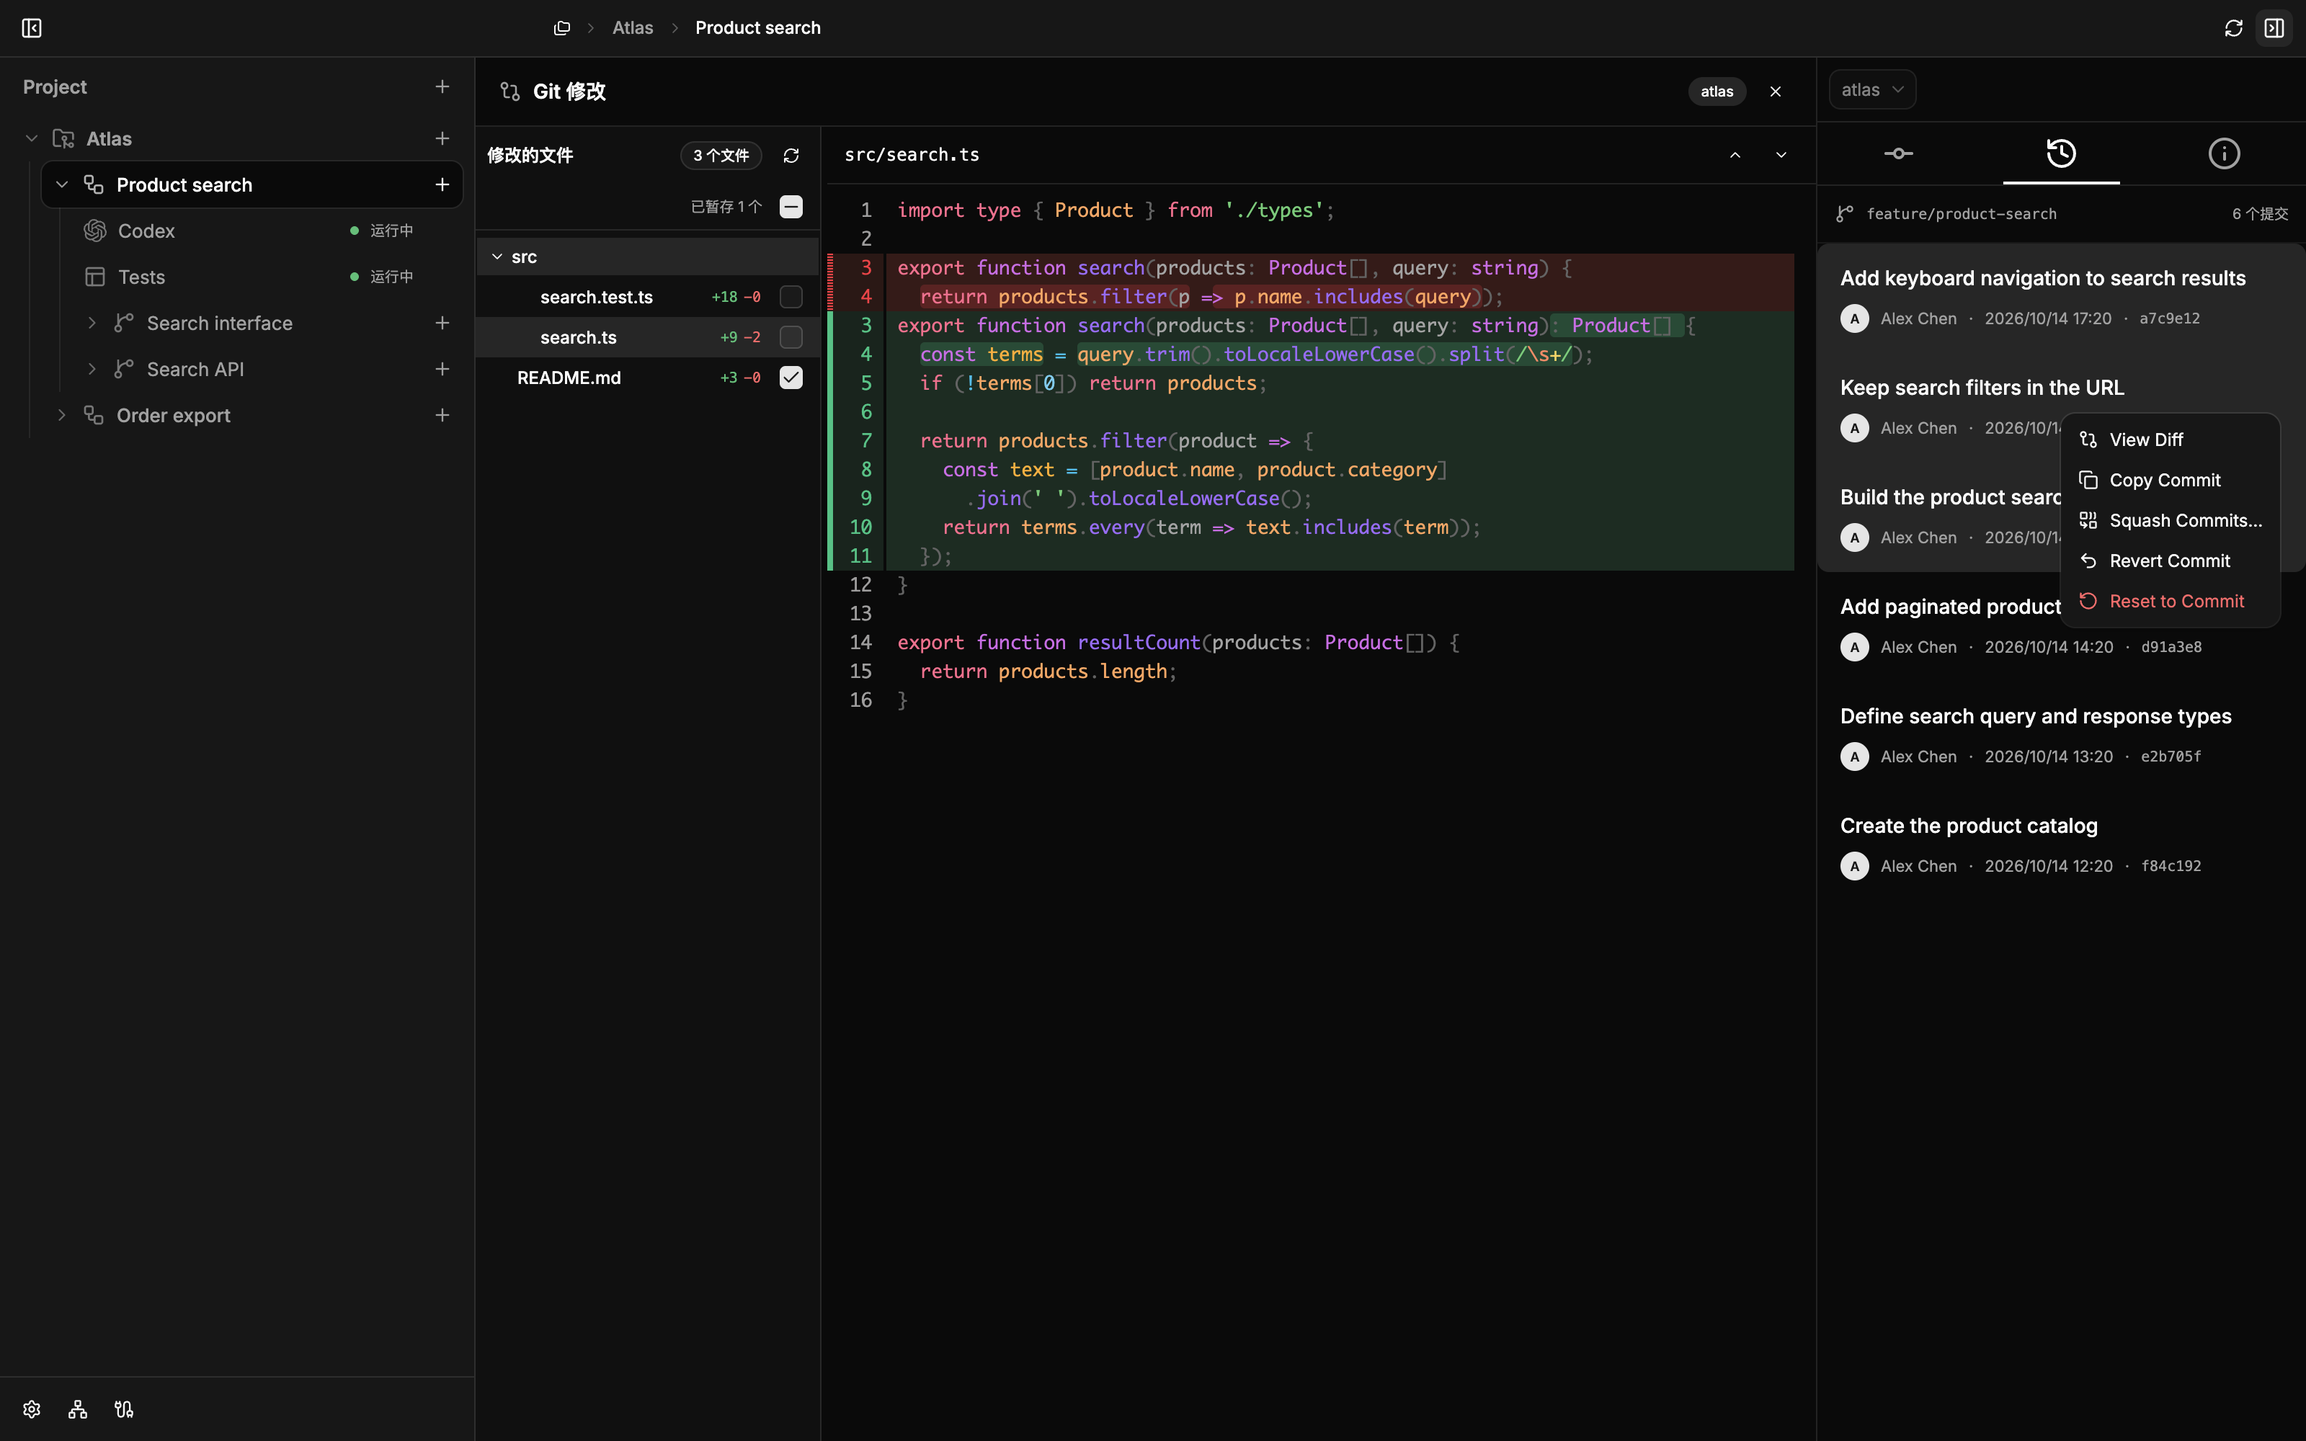
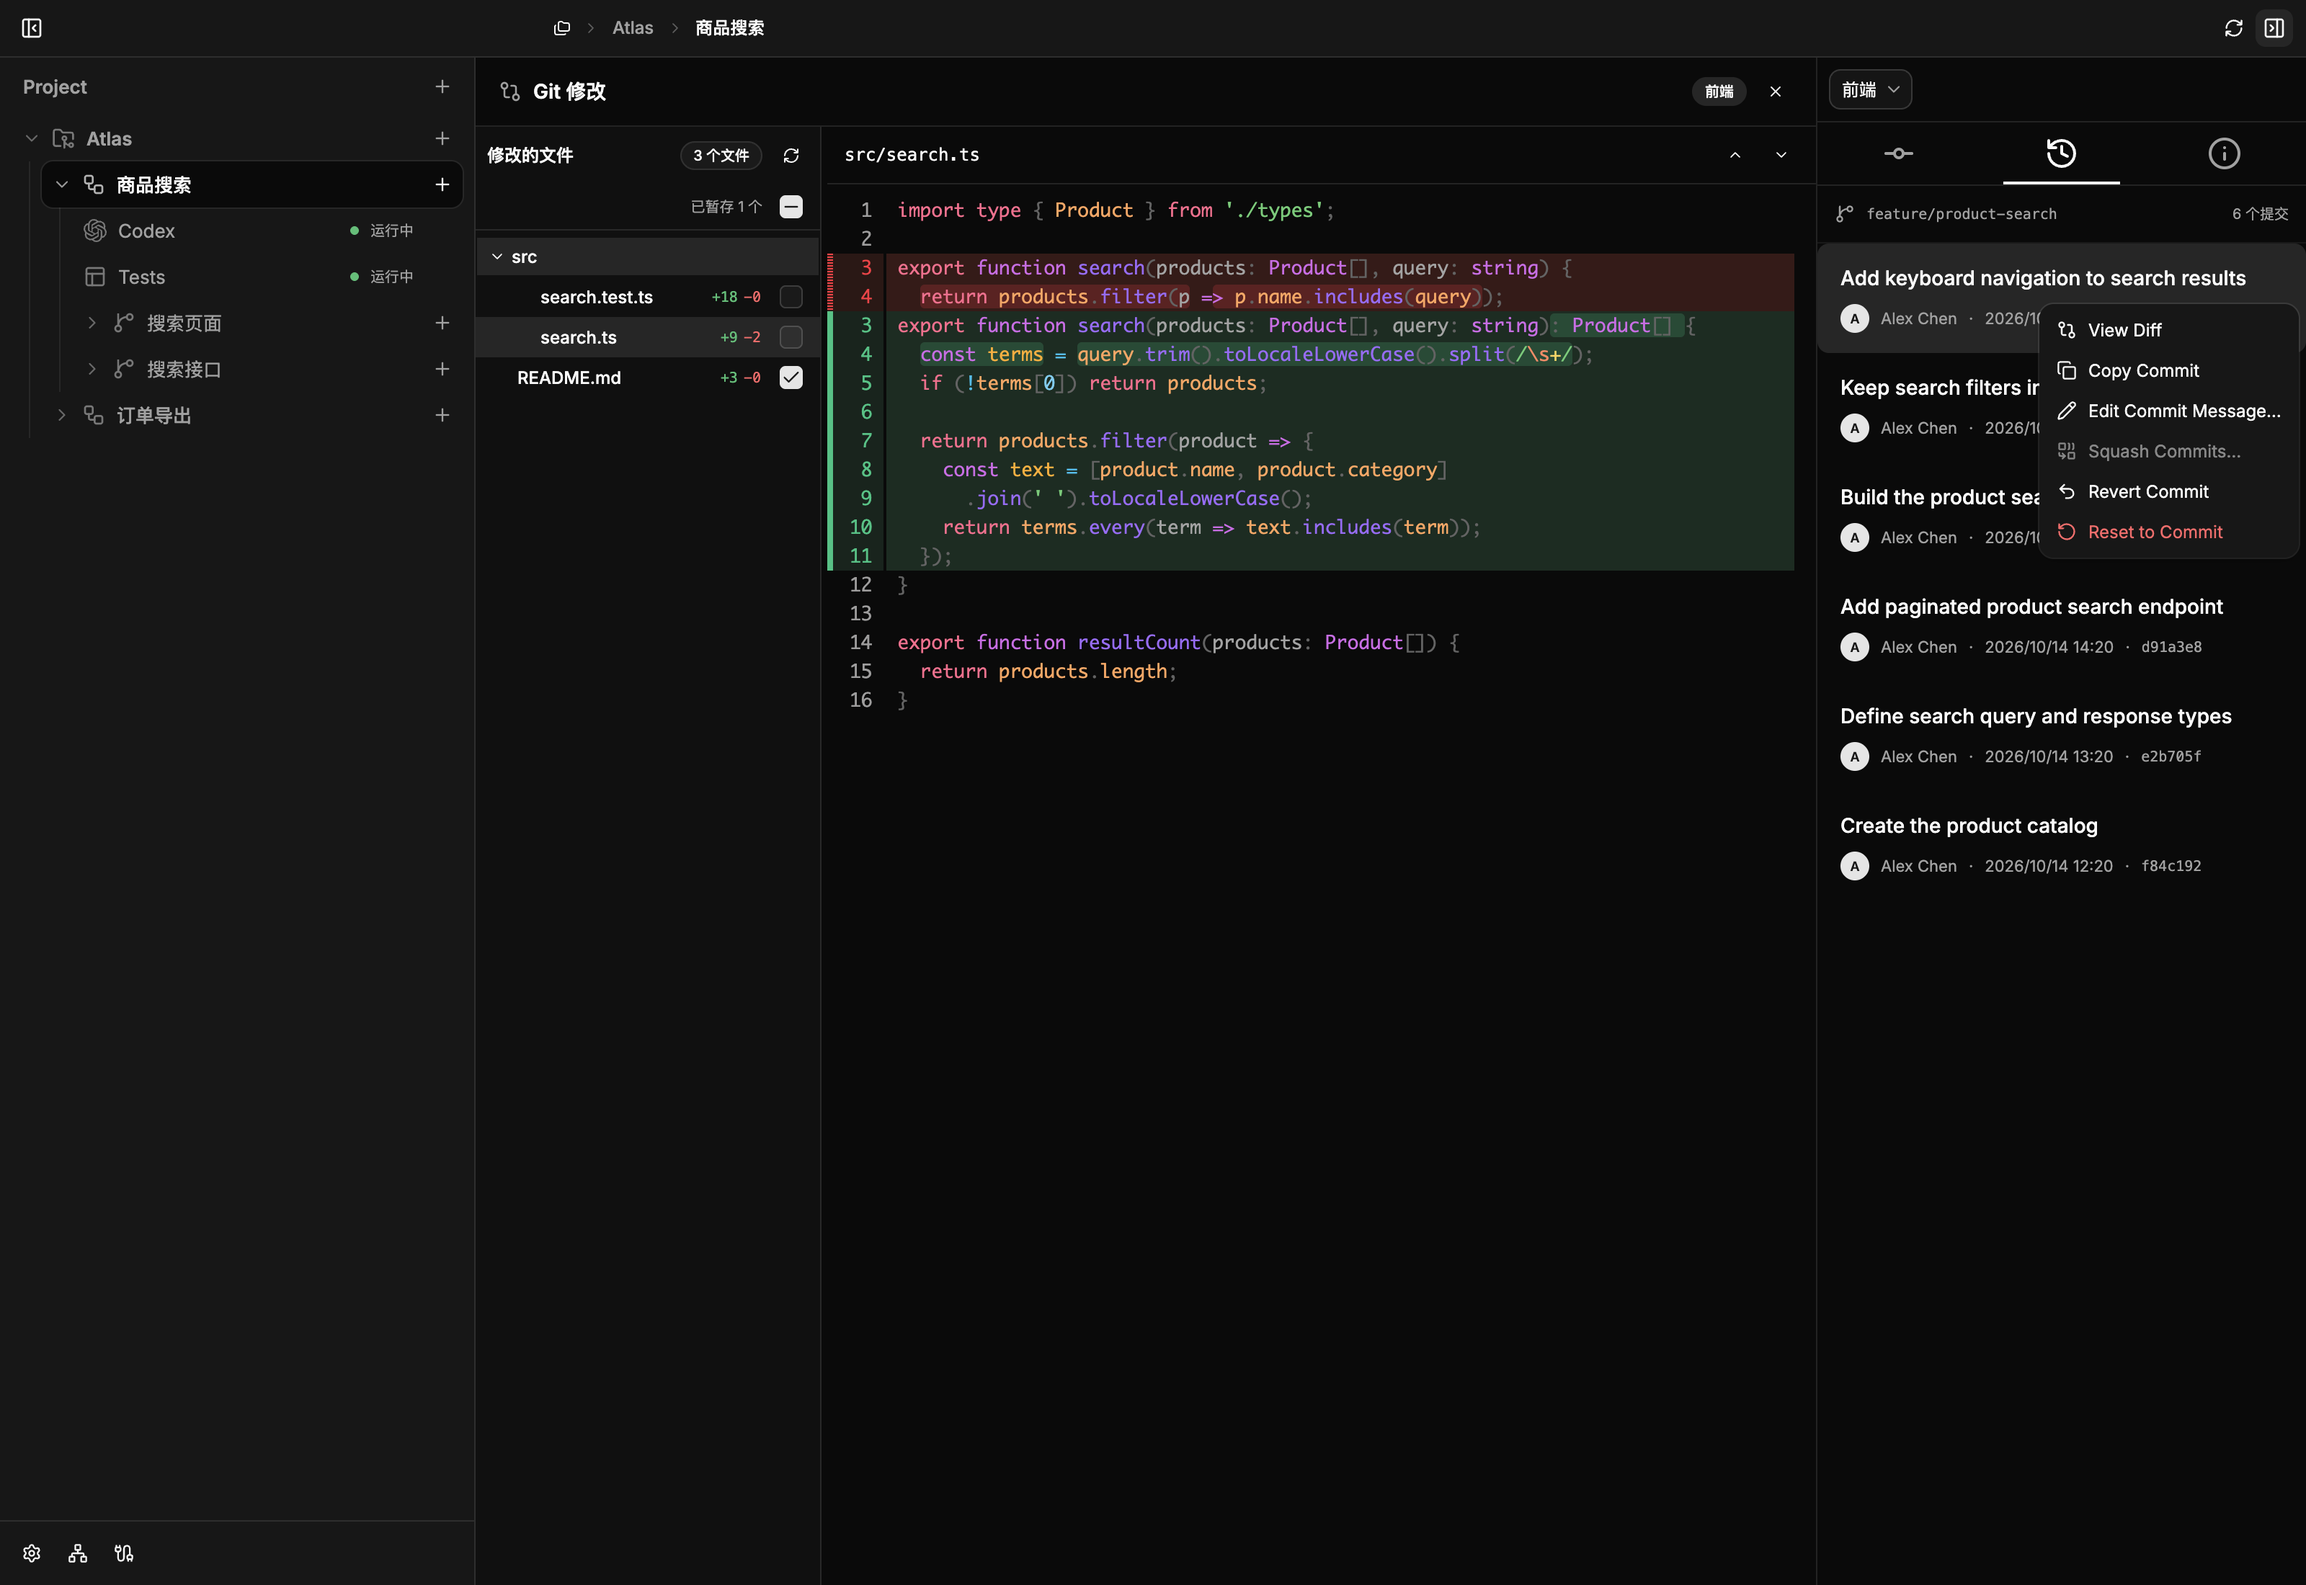
docs: showcase Treefold workflows and demo video

diff --git a/README.md b/README.md
@@ -10,23 +10,30 @@ Develop with **Codex, Claude Code, OpenCode, or Pi**, and use Shell Sessions to 
 
 [Install](#install) · [Start your first task](#start-your-first-task) · [Common workflows](#common-workflows) · [Website](https://treefold.win5do.top/) · [GitHub Releases](https://github.com/win5do/treefold/releases)
 
+## Video demo
+
+A 30-second tour of parallel development, review, and delivery. Video in Chinese.
+
+https://github.com/user-attachments/assets/909fffe9-795c-4e07-bd55-4b5d3d8c6793
+
+## What you can do with Treefold
+
+- **Work in parallel with isolated changes.** Give each feature a Workspace and split independent subtasks into Forks. Code, Todos, and Sessions stay with the task. Review the results, then merge into the parent.
+- **Move several repositories forward together.** Keep frontend and backend in one Project, choosing new or existing branches for each repository. Include monorepo subdirectories and reference material too.
+- **Review changes and prepare delivery.** Inspect diffs and history, squash or reset commits, and edit the latest commit message. Squash delivery supports a message per repository while preserving source-branch history.
+- **Give your Agent the scope for AI Review.** Treefold adds repositories and comparison targets, asking the Agent to inspect committed changes, uncommitted changes, and new files. Edit the prompt, then discuss and fix findings in the same Session.
+- **Share services and logs.** People and agents use amux to inspect the same managed processes and output. Find the service across Sessions without asking an Agent to relay its logs.
+- **Spend less time finding commands and directories.** Command Palette keeps the current task context; Open With opens its directory in your IDE, terminal, or Finder.
+
 ## A look inside
 
 | Explore Treefold |
 | --- |
-| **One repository, several worktrees**<br>See each feature and Fork alongside its branch, checkout, and worktree status.<br><br>![One repository, several worktrees](docs/images/project-en-US.png) |
-| **One place for the whole feature**<br>Keep Todos, Forks, and Sessions together from planning through delivery.<br><br>![One place for the whole feature](docs/images/workspace-en-US.png) |
-| **Choose the Agent for the task**<br>Start a Session with Codex, Claude Code, OpenCode, or Pi in the right working directory.<br><br>![Choose the Agent for the task](docs/images/agents-en-US.png) |
-| **Review changes and history together**<br>Inspect working changes while selecting multiple commits and opening Git history actions.<br><br>![Review changes and history together](docs/images/git-en-US.png) |
-| **Agents and processes stay with their Fork**<br>Switch between Codex, Claude Code, Pi, and two process tabs; keep the development server’s TTY output in view.<br><br>![Agents and processes stay with their Fork](docs/images/terminal-en-US.png) |
-
-## What you can do with Treefold
-
-- **Work on several features at once.** Each Workspace gets its own branches and worktrees, preserving your existing checkout.
-- **Delegate parallel subtasks.** Create Forks within a Workspace so different agents can work on the API, UI, or tests, then merge into the parent Workspace.
-- **Keep your context.** Code, Agent and Shell Sessions, and Todos stay attached to their task. Page navigation does not stop processes; Agent Sessions linked to native history can be resumed.
-- **Review and deliver.** Inspect diffs and Git history, handle synchronization and conflicts, choose a local merge or branch push, then archive and clean up when ready.
-- **Organize multiple repositories.** Group frontend and backend repositories with reference documents in one Project, with explicit read/write roles for directories.
+| **One place for the whole feature**<br>Keep Todos, Forks, and Sessions together from planning through delivery.<br><br>![Workspace with Todos, Forks, and Sessions](docs/images/workspace-en-US.png) |
+| **Separate branch choices, one task**<br>Start a new frontend branch while continuing existing backend work in the same Workspace. Screenshot in Chinese.<br><br>![New and existing branch choices per repository](docs/images/workspace-branches-zh-CN.png) |
+| **Review changes and history together**<br>Inspect diffs and organize commits before delivery.<br><br>![Git Changes and History](docs/images/git-en-US.png) |
+| **AI Review**<br>Choose an Agent and edit the prompt; repository context and comparison scope are added automatically. Screenshot in Chinese.<br><br>![AI Review prompt and Agent selection](docs/images/review-zh-CN.png) |
+| **Service logs stay with the task**<br>Switch between agents and development services to inspect terminal output directly.<br><br>![Agent and development service terminals](docs/images/terminal-en-US.png) |
 
 ## Product architecture
 
